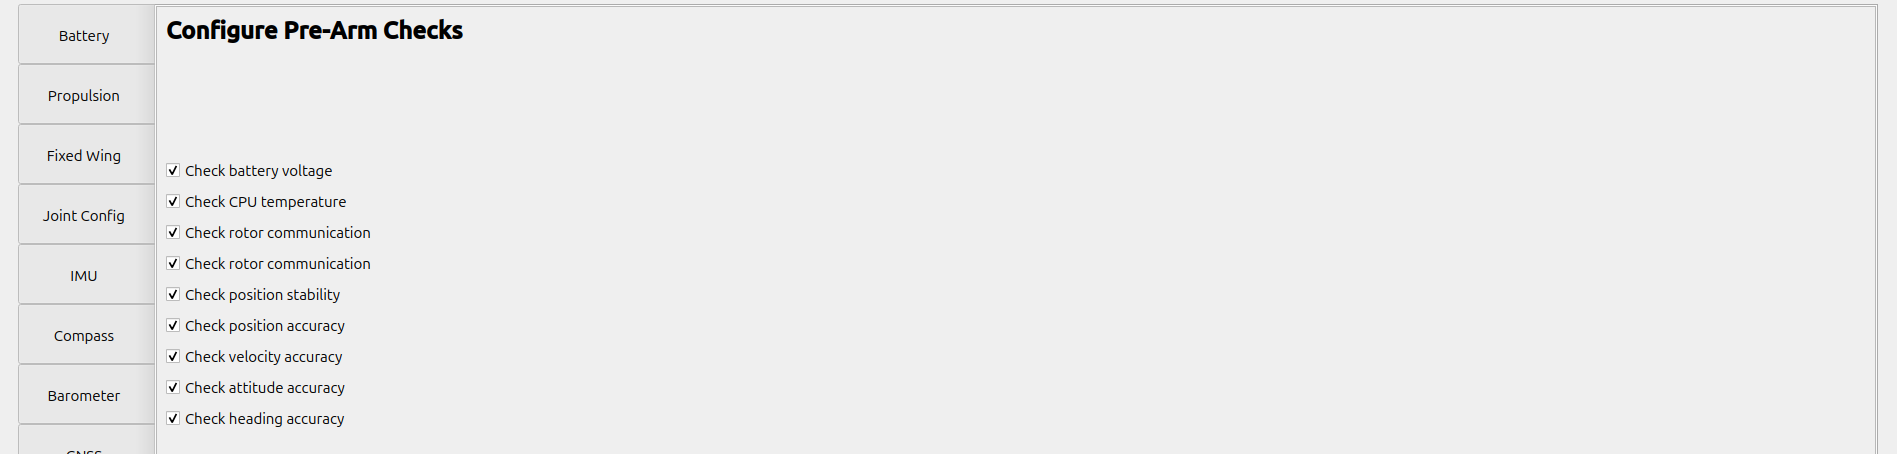
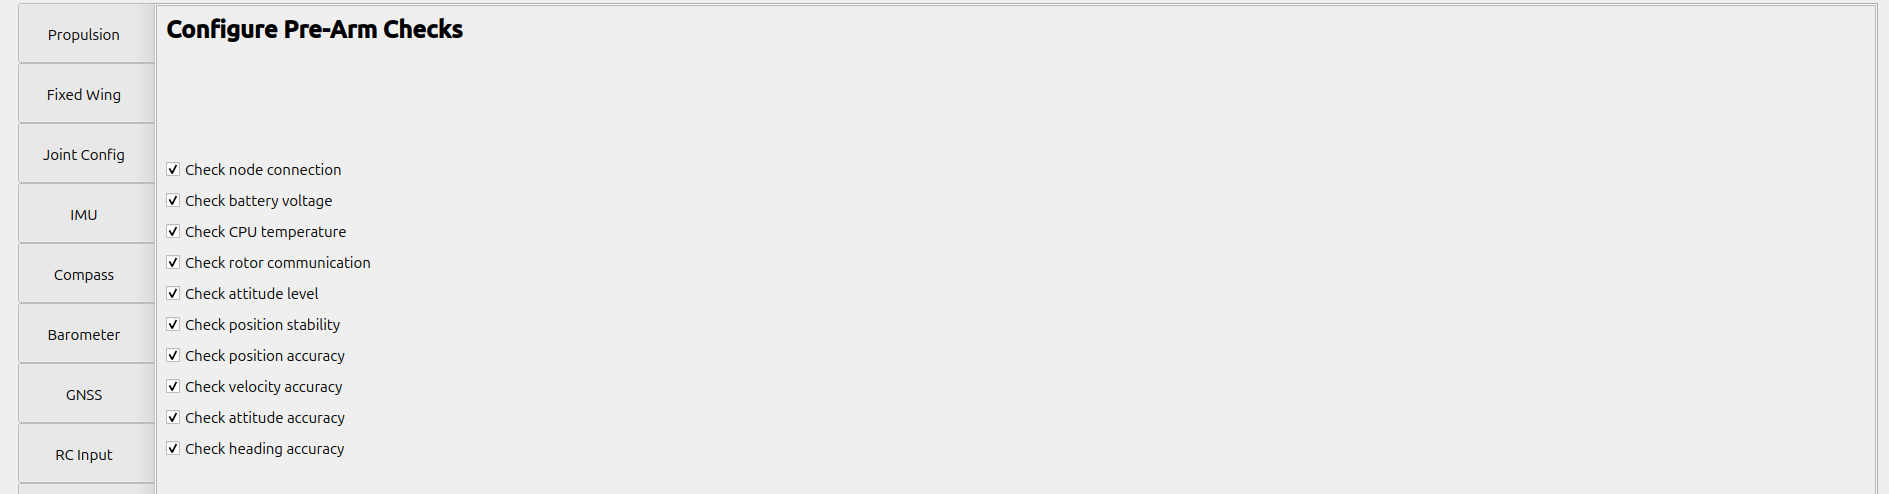
edit: setup_assistant

diff --git a/docs/setup_assistant.md b/docs/setup_assistant.md
@@ -21,20 +21,23 @@ Tobas を起動し，ツールボタンから`Setup Assistant`を選択します
 ロードが完了すると画面左のタブがアクティブになります．
 これらのタブを上から順に設定していきます．
 
-## Battery
-
----
-
-バッテリーの設定を行います．
-バッテリーの仕様を見ながら以下のように設定します:
-
-![battery](resources/setup_assistant/battery.png)
-
 ## Propulsion
 
 ---
 
-推進系 (プロペラ) の設定を行います．
+推進系の設定を行います．
+今回は電動機のため`Electric Propulsion System`を選択します．
+
+### Battery
+
+バッテリーの設定を行います．
+バッテリーの仕様を確認し，正しく値を入力します．
+
+![battery](resources/setup_assistant/propulsion/battery.png)
+
+### Propulsion Units
+
+各推進ユニットの設定を行います．
 `Available Links`にプロペラとして利用可能なリンクが表示されています．
 表示されない場合は，URDF Builder でプロペラリンクのジョイントタイプが`Continuous`になっていることを確認してください．
 
@@ -121,11 +124,8 @@ RPM,CT,CP
 
 ---
 
-加速度センサ，ジャイロセンサ，地磁気センサ，気圧センサ，GNSS レシーバはFMUに組み込まれています．
+加速度センサ，ジャイロセンサ，地磁気センサ，気圧センサ，GNSS レシーバは FMU に組み込まれています．
 基本的に設定はデフォルトで構いませんが，センサ位置がルートフレームから離れている場合はオフセットを適切に設定すると状態推定の精度が改善する可能性があります．
-今回は GNSS レシーバのオフセットのみ修正します．
-
-![gnss](resources/setup_assistant/gnss.png)
 
 <!-- TODO
 ## オプションデバイス (Camera, LiDAR, Odometry, Tether Station)
@@ -141,6 +141,15 @@ RPM,CT,CP
 
 今回はいずれも搭載しないためパスします．
 -->
+
+## RC Input
+
+---
+
+ラジオコントロールに関する設定を行います．
+送信機や受信機の仕様書を確認し，正しく値を入力します．
+
+![rc_input](resources/setup_assistant/rc_input.png)
 
 ## Controller
 
